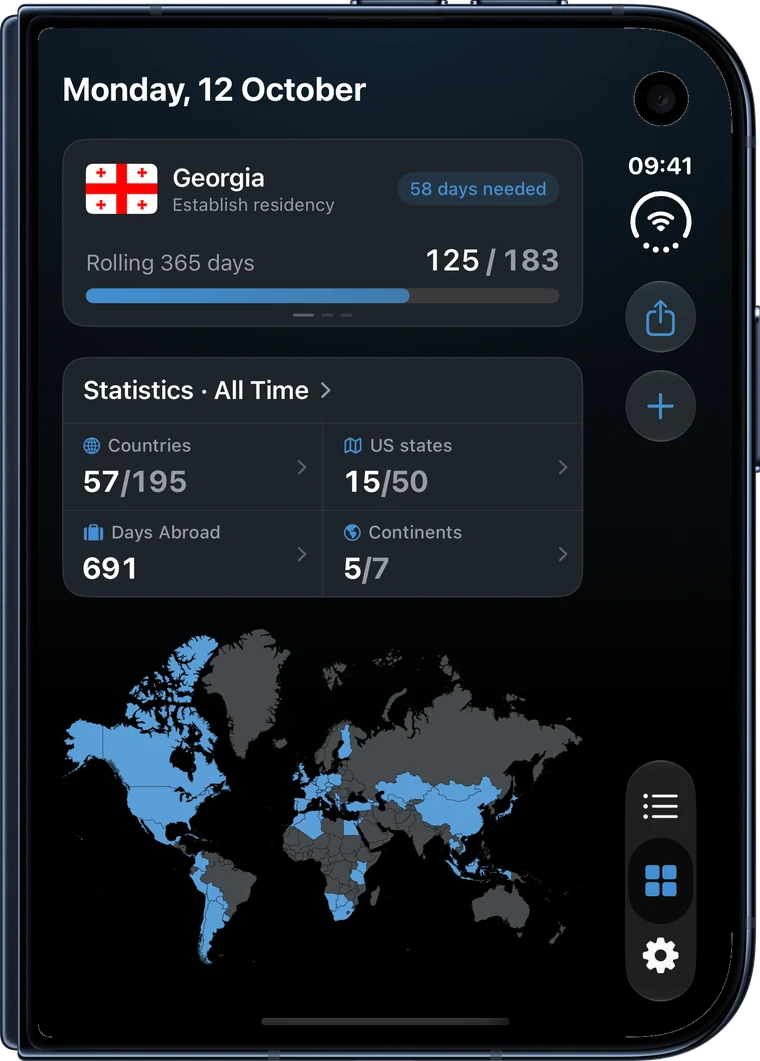
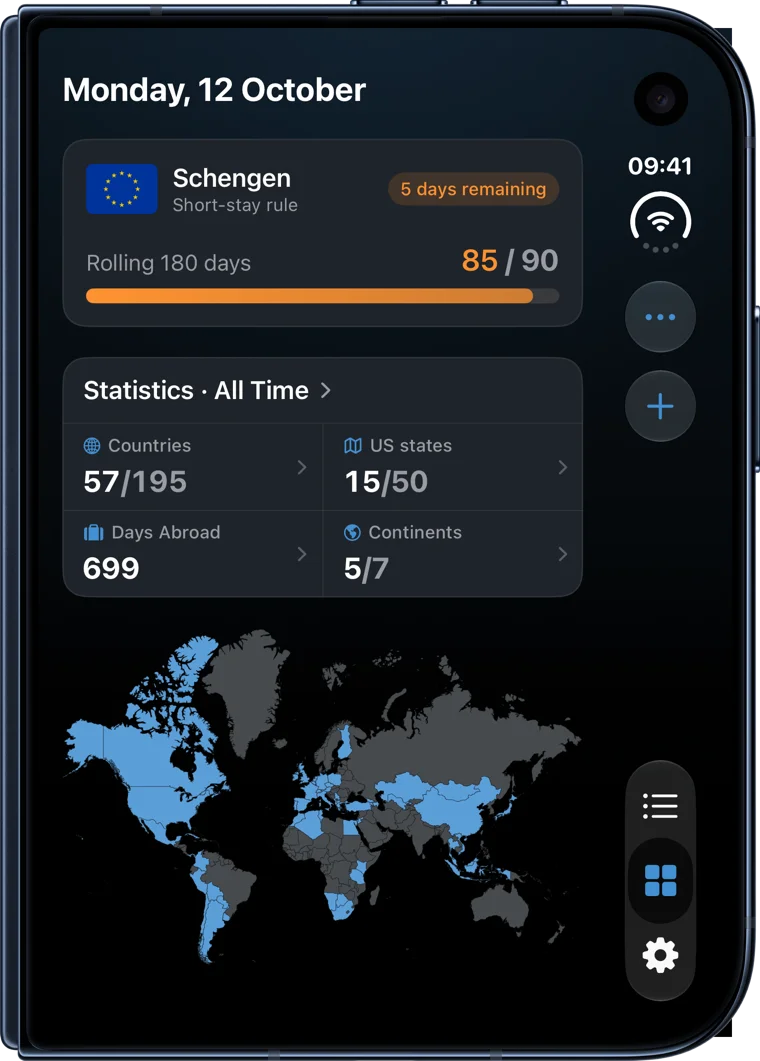
Press page: Dashboard pair with Schengen first
Closed: the Schengen tracker, the statistics and the whole world map.
Opened: Schengen, Georgia and the United Kingdom beside the statistics
and the map. Both carry the London trip, so the United Kingdom reads 8 of
30. The closed image's alt text describes the new shot.

diff --git a/press/iphone-duo/index.html b/press/iphone-duo/index.html
@@ -119,7 +119,7 @@
         <p class="section-copy">Closed, your trackers, the statistics and the map share one column. Open it and the dashboard splits along the fold: your trackers on one side, the statistics and the map on the other.</p>
         <div class="pair">
           <figure class="closed">
-            <img src="/assets/press/iphone-duo/dashboard-closed.webp" alt="AtlasDays dashboard on the closed iPhone Duo: a Georgia residency tracker in a carousel, four statistics and a world map of visited countries" width="760" height="1061" />
+            <img src="/assets/press/iphone-duo/dashboard-closed.webp" alt="AtlasDays dashboard on the closed iPhone Duo: a Schengen tracker with 85 of 90 days used, four statistics and a world map of visited countries" width="760" height="1061" />
             <figcaption>Closed</figcaption>
           </figure>
           <figure class="open">
